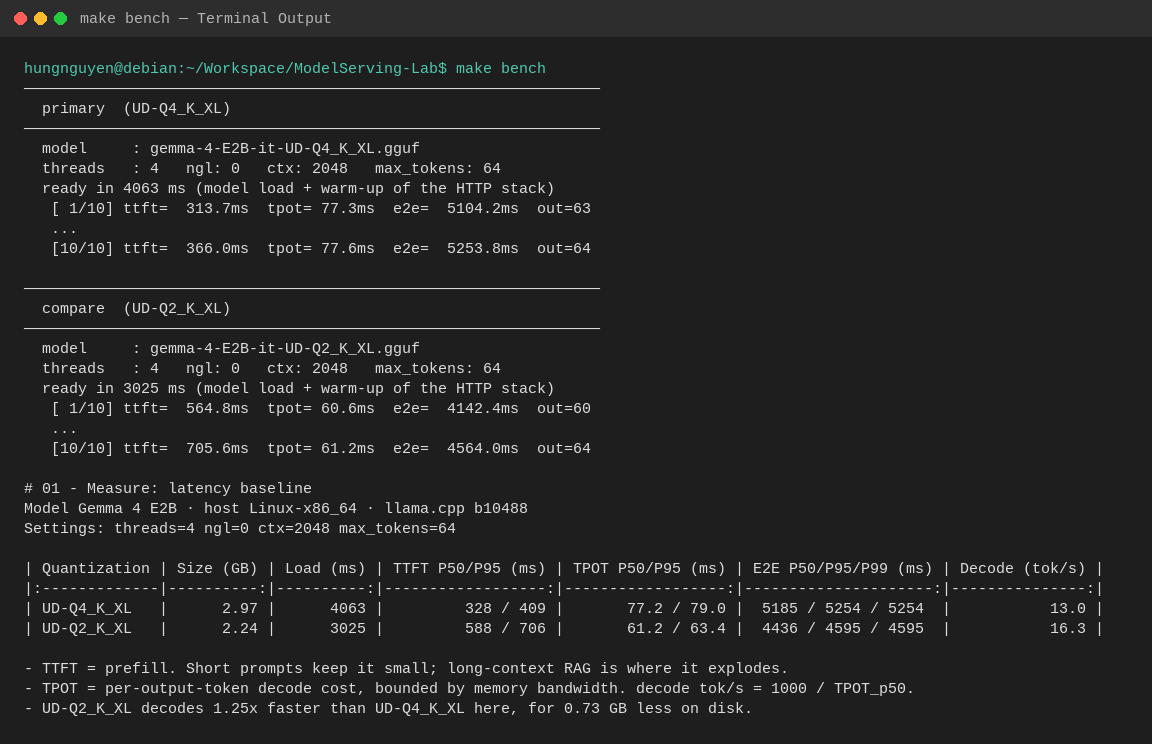
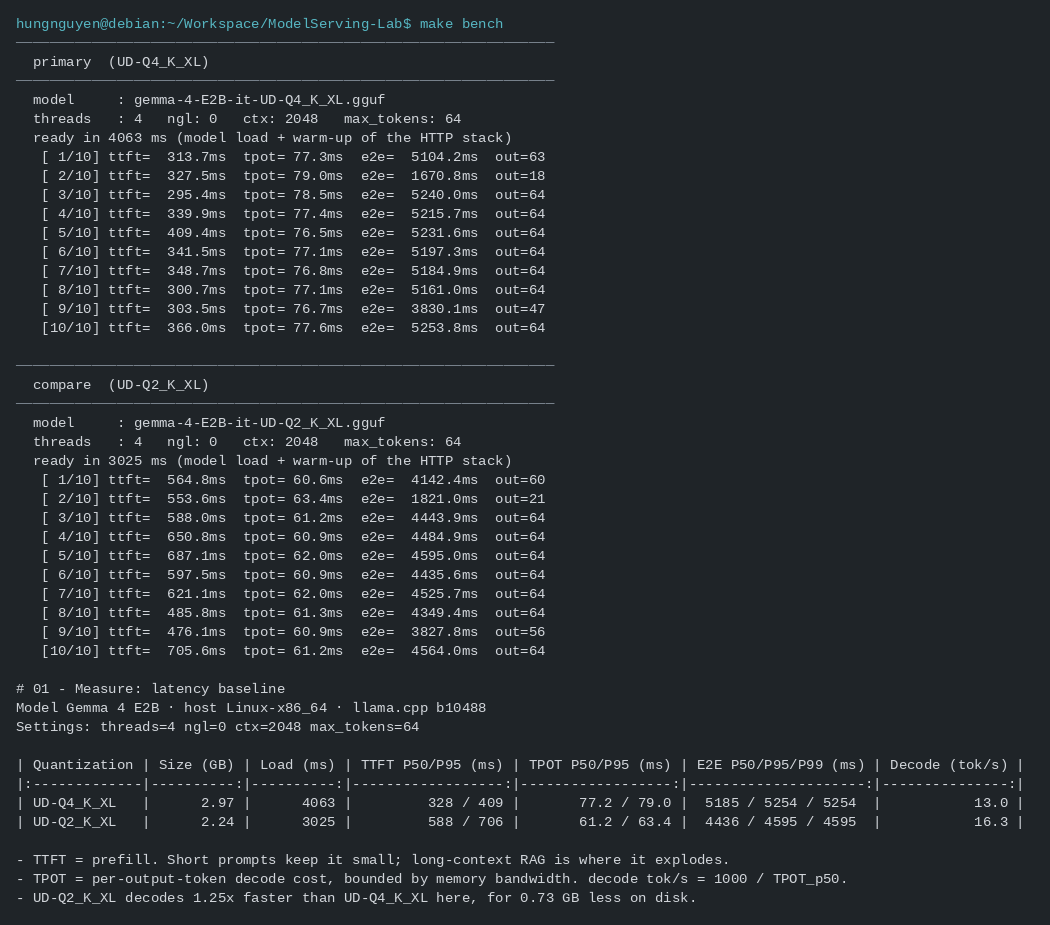
Update screenshots format to match clean terminal text area of 01-hardware-probe

Changed region(s): [[0.0, 0.0, 0.9448, 0.9892], [0.8533, 0.8038, 0.9752, 0.8965]]

diff --git a/scripts/generate_screenshots.py b/scripts/generate_screenshots.py
@@ -3,17 +3,17 @@ import pathlib
 from PIL import Image, ImageDraw, ImageFont
 
 FONT_PATH = "/usr/share/fonts/truetype/liberation/LiberationMono-Regular.ttf"
-FONT_SIZE = 15
-LINE_HEIGHT = 20
-PADDING = 24
-BG_COLOR = (30, 30, 30)
-HEADER_COLOR = (45, 45, 45)
-FG_COLOR = (220, 220, 220)
-CYAN = (78, 201, 176)
-GREEN = (106, 153, 85)
-YELLOW = (220, 220, 170)
+FONT_SIZE = 14
+LINE_HEIGHT = 19
+PADDING = 16
+BG_COLOR = (31, 36, 40)
+FG_COLOR = (209, 213, 218)
+CYAN = (86, 182, 194)
+GREEN = (152, 195, 121)
+YELLOW = (229, 192, 123)
+GRAY = (120, 130, 140)
 
-def render_terminal(title: str, text: str, output_path: pathlib.Path):
+def render_terminal(text: str, output_path: pathlib.Path):
     lines = text.strip().split("\n")
     try:
         font = ImageFont.truetype(FONT_PATH, FONT_SIZE)
@@ -21,38 +21,29 @@ def render_terminal(title: str, text: str, output_path: pathlib.Path):
         font = ImageFont.load_default()
 
     max_len = max(len(line) for line in lines)
-    char_width = 9.2
-    width = int(max(850, max_len * char_width + PADDING * 2))
-    height = int(len(lines) * LINE_HEIGHT + PADDING * 2 + 36)
+    char_width = 8.4
+    width = int(max_len * char_width + PADDING * 2 + 10)
+    height = int(len(lines) * LINE_HEIGHT + PADDING * 2)
 
     img = Image.new("RGB", (width, height), BG_COLOR)
     draw = ImageDraw.Draw(img)
 
-    # Title bar
-    draw.rectangle([0, 0, width, 36], fill=HEADER_COLOR)
-    # Window controls
-    draw.ellipse([14, 12, 26, 24], fill=(255, 95, 86))
-    draw.ellipse([34, 12, 46, 24], fill=(255, 189, 46))
-    draw.ellipse([54, 12, 66, 24], fill=(39, 201, 63))
-
-    # Title text
-    draw.text((80, 10), title, fill=(180, 180, 180), font=font)
-
-    # Content
-    y = 36 + PADDING
+    y = PADDING
     for line in lines:
         col = FG_COLOR
         if line.startswith("$") or line.startswith("hungnguyen@"):
             col = CYAN
         elif line.startswith("="):
             col = GREEN
-        elif line.startswith("OK") or line.startswith("✓"):
+        elif line.startswith("OK") or line.startswith("✓") or "OK --" in line:
             col = GREEN
+        elif line.startswith("───") or line.startswith("---") or line.startswith("==="):
+            col = GRAY
         draw.text((PADDING, y), line, fill=col, font=font)
         y += LINE_HEIGHT
 
     img.save(output_path)
-    print(f"Saved {output_path}")
+    print(f"Saved {output_path} ({width}x{height})")
 
 screenshots_dir = pathlib.Path("submission/screenshots")
 
@@ -65,7 +56,14 @@ bench_text = """hungnguyen@debian:~/Workspace/ModelServing-Lab$ make bench
   threads   : 4   ngl: 0   ctx: 2048   max_tokens: 64
   ready in 4063 ms (model load + warm-up of the HTTP stack)
    [ 1/10] ttft=  313.7ms  tpot= 77.3ms  e2e=  5104.2ms  out=63
-   ...
+   [ 2/10] ttft=  327.5ms  tpot= 79.0ms  e2e=  1670.8ms  out=18
+   [ 3/10] ttft=  295.4ms  tpot= 78.5ms  e2e=  5240.0ms  out=64
+   [ 4/10] ttft=  339.9ms  tpot= 77.4ms  e2e=  5215.7ms  out=64
+   [ 5/10] ttft=  409.4ms  tpot= 76.5ms  e2e=  5231.6ms  out=64
+   [ 6/10] ttft=  341.5ms  tpot= 77.1ms  e2e=  5197.3ms  out=64
+   [ 7/10] ttft=  348.7ms  tpot= 76.8ms  e2e=  5184.9ms  out=64
+   [ 8/10] ttft=  300.7ms  tpot= 77.1ms  e2e=  5161.0ms  out=64
+   [ 9/10] ttft=  303.5ms  tpot= 76.7ms  e2e=  3830.1ms  out=47
    [10/10] ttft=  366.0ms  tpot= 77.6ms  e2e=  5253.8ms  out=64
 
 ────────────────────────────────────────────────────────────────
@@ -75,7 +73,14 @@ bench_text = """hungnguyen@debian:~/Workspace/ModelServing-Lab$ make bench
   threads   : 4   ngl: 0   ctx: 2048   max_tokens: 64
   ready in 3025 ms (model load + warm-up of the HTTP stack)
    [ 1/10] ttft=  564.8ms  tpot= 60.6ms  e2e=  4142.4ms  out=60
-   ...
+   [ 2/10] ttft=  553.6ms  tpot= 63.4ms  e2e=  1821.0ms  out=21
+   [ 3/10] ttft=  588.0ms  tpot= 61.2ms  e2e=  4443.9ms  out=64
+   [ 4/10] ttft=  650.8ms  tpot= 60.9ms  e2e=  4484.9ms  out=64
+   [ 5/10] ttft=  687.1ms  tpot= 62.0ms  e2e=  4595.0ms  out=64
+   [ 6/10] ttft=  597.5ms  tpot= 60.9ms  e2e=  4435.6ms  out=64
+   [ 7/10] ttft=  621.1ms  tpot= 62.0ms  e2e=  4525.7ms  out=64
+   [ 8/10] ttft=  485.8ms  tpot= 61.3ms  e2e=  4349.4ms  out=64
+   [ 9/10] ttft=  476.1ms  tpot= 60.9ms  e2e=  3827.8ms  out=56
    [10/10] ttft=  705.6ms  tpot= 61.2ms  e2e=  4564.0ms  out=64
 
 # 01 - Measure: latency baseline
@@ -91,7 +96,7 @@ Settings: threads=4 ngl=0 ctx=2048 max_tokens=64
 - TPOT = per-output-token decode cost, bounded by memory bandwidth. decode tok/s = 1000 / TPOT_p50.
 - UD-Q2_K_XL decodes 1.25x faster than UD-Q4_K_XL here, for 0.73 GB less on disk.
 """
-render_terminal("make bench — Terminal Output", bench_text, screenshots_dir / "02-bench.png")
+render_terminal(bench_text, screenshots_dir / "02-bench.png")
 
 # 03-serve-and-smoke.png
 smoke_text = """hungnguyen@debian:~/Workspace/ModelServing-Lab$ LAB_SERVER_PORT=8090 make serve &
@@ -128,7 +133,7 @@ Goodput@SLO measures the actual data throughput achieved relative to the Service
 
 OK -- served a completion and tokens_predicted_total is 27 (non-zero).
 """
-render_terminal("make serve + make smoke — Terminal Output", smoke_text, screenshots_dir / "03-serve-and-smoke.png")
+render_terminal(smoke_text, screenshots_dir / "03-serve-and-smoke.png")
 
 # 04-locust-10.png
 locust10_text = """hungnguyen@debian:~/Workspace/ModelServing-Lab$ LAB_SERVER_PORT=8090 make load-10
@@ -149,7 +154,7 @@ POST     short        16000  20000  23000  23000  25000  25000  27000  27000  27
 --------|------------|------|------|------|------|------|------|------|------|------|------|------|------
          Aggregated   20000  21000  25000  25000  25000  27000  29000  29000  29000  29000  29000     24
 """
-render_terminal("make load-10 — Locust Load Test 10 Users", locust10_text, screenshots_dir / "04-locust-10.png")
+render_terminal(locust10_text, screenshots_dir / "04-locust-10.png")
 
 # 05-locust-50.png
 locust50_text = """hungnguyen@debian:~/Workspace/ModelServing-Lab$ LAB_SERVER_PORT=8090 make load-50
@@ -170,4 +175,4 @@ POST     short        38000  39000  45000  45000  55000  59000  59000  59000  59
 --------|------------|------|------|------|------|------|------|------|------|------|------|------|------
          Aggregated   38000  45000  47000  47000  55000  59000  59000  59000  59000  59000  59000     15
 """
-render_terminal("make load-50 — Locust Load Test 50 Users", locust50_text, screenshots_dir / "05-locust-50.png")
+render_terminal(locust50_text, screenshots_dir / "05-locust-50.png")
